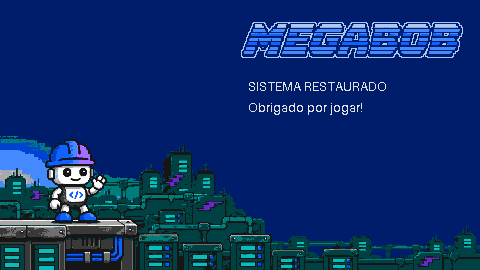
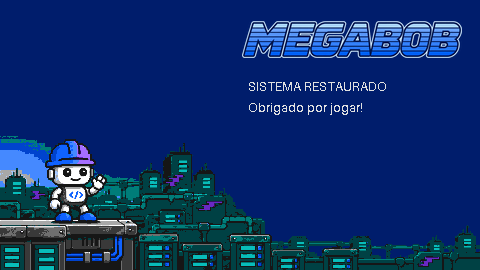
art: recreate the Megabob wordmark with smoother readable lettering (T21)
Preserve the IBM blue stripe identity and prior logo. Keep existing frame sizes while using smooth-alpha Lanczos reduction only for the wordmark.

Changed region(s): [[0.5, 0.0593, 0.9688, 0.237]]

diff --git a/tools/art.py b/tools/art.py
@@ -12,8 +12,8 @@ from pathlib import Path
 
 from PIL import Image, ImageDraw, ImageFilter
 
-from palette import nearest, PALETTE, _dist
-from sprites import frame_ranges, is_magenta, pixels, remove_specks
+from palette import nearest, _dist
+from sprites import frame_ranges, is_magenta, pixels
 from art_catalog import EXISTING_FX, REFERENCE_ONLY, catalog
 from ui_art import (
     stage_assets, stage_preview, STAGE_SLOTS, hud_assets, scene_preview, hud_preview,
@@ -118,6 +118,20 @@ def pack(regions, size, fit, empty=(), anchor='center', stretch=False, frame_fit
         y = 0 if anchor == 'top' else size[1] - small.height if anchor == 'bottom' else (size[1] - small.height) // 2
         sheet.alpha_composite(small, (i * size[0] + x, y))
     return sheet
+
+
+def readable_logo(image, size, fit):
+    """The title wordmark explicitly uses smooth alpha and its own blue ramp."""
+    box = image.getchannel('A').point(lambda a: 255 if a >= 8 else 0).getbbox()
+    if box is None:
+        raise ValueError('empty title logo')
+    crop = image.crop(box)
+    scale = min(fit[0] / crop.width, fit[1] / crop.height)
+    target = (max(1, round(crop.width * scale)), max(1, round(crop.height * scale)))
+    small = crop.resize(target, Image.Resampling.LANCZOS)
+    result = Image.new('RGBA', size)
+    result.alpha_composite(small, ((size[0] - small.width) // 2, (size[1] - small.height) // 2))
+    return result
 
 
 def align_top_frames(sheet, size, indices):
@@ -269,23 +283,6 @@ def hashes():
             for path in sorted(RAW.rglob('*.png'))}
 
 
-def night_logo(image):
-    """A one-pixel light keyline keeps the striped wordmark readable over navy skies."""
-    # The declared palette starts with six neutrals and five IBM blues. Avoid magenta
-    # background fringe mapping to purple in this blue-only logo variant.
-    allowed = PALETTE[:11]
-    colors = {rgb: min(allowed, key=lambda color: _dist(rgb, color))
-              for rgb in {pixel[:3] for pixel in pixels(image) if pixel[3]}}
-    result = image.copy()
-    result.putdata([(*colors[(r, g, b)], 255) if a else (0, 0, 0, 0)
-                    for r, g, b, a in pixels(image)])
-    remove_specks(result, 2)
-    outline = Image.new('RGBA', result.size, (166, 200, 255, 255))
-    outline.putalpha(result.getchannel('A').filter(ImageFilter.MaxFilter(3)))
-    outline.alpha_composite(result)
-    return outline
-
-
 def title_preview():
     """Art-only layout at the approved 480x270 viewport; menu text stays in game code."""
     exports = ROOT / 'art/exports'
@@ -332,12 +329,13 @@ def run(group='all'):
         source = item['source']
         if source not in cache:
             image = Image.open(RAW / source).convert('RGBA')
-            cache[source] = image if item.get('opaque') else clean(image)
+            cache[source] = image if item.get('opaque') or item['key'].startswith('title_logo') else clean(image)
         image = cache[source]
         if item['key'] == 'title_logo':
             exports = ROOT / 'art/exports'
             exports.mkdir(parents=True, exist_ok=True)
-            image.crop(image.getbbox()).save(exports / 'megabob-logo.png')
+            box = image.getchannel('A').point(lambda a: 255 if a >= 8 else 0).getbbox()
+            image.crop(box).save(exports / 'megabob-logo.png')
             prompt = (RAW / source).with_suffix('.prompt.txt')
             if prompt.exists():
                 (exports / 'megabob-logo.prompt.txt').write_text(prompt.read_text(encoding='utf-8'), encoding='utf-8')
@@ -349,14 +347,15 @@ def run(group='all'):
             if grid_key not in grids:
                 grids[grid_key] = grid_regions(image, item['cols'], item['rows'], item.get('mode', 'grid'))
             regions = [grids[grid_key][position] for position in item['selection']]
-        result = pack(regions, item['size'], item['fit'], item.get('empty', ()),
-                      item.get('anchor', 'center'), item.get('stretch', False), item.get('frame_fit'))
+        if item['key'].startswith('title_logo'):
+            result = readable_logo(image, item['size'], item['fit'])
+        else:
+            result = pack(regions, item['size'], item['fit'], item.get('empty', ()),
+                          item.get('anchor', 'center'), item.get('stretch', False), item.get('frame_fit'))
         if item.get('top_frames'):
             result = align_top_frames(result, item['size'], item['top_frames'])
         if item['key'] == 'tiles_memory_leak':
             result = memory_tiles(result)
-        if item['key'] == 'title_logo_night':
-            result = night_logo(result)
         if item['key'] == 'tech_laser':
             result = periodic(result, 2)
         entry = save_asset(result, item['group'], item['key'], item['size'], source,

diff --git a/tools/art_catalog.py b/tools/art_catalog.py
@@ -120,8 +120,8 @@ def catalog():
                     [(0, 0), (2, 5), (2, 4), (2, 1)], (16, 16),
                     frame_fit={0: 'fill', 1: 'fill', 2: 'fill', 3: 'width'}, top_frames=[3]))
 
-    out.append(spec('ui', 'title_logo', 'ui/U1_logo', 1, 1, [(0, 0)], (224, 48)))
-    out.append(spec('ui', 'title_logo_night', 'ui/U1_logo', 1, 1, [(0, 0)], (224, 48), (220, 44)))
+    out.append(spec('ui', 'title_logo', 'ui/U1_logo_readable', 1, 1, [(0, 0)], (224, 48)))
+    out.append(spec('ui', 'title_logo_night', 'ui/U1_logo_readable', 1, 1, [(0, 0)], (224, 48), (220, 44)))
     out.append(spec('ui', 'title_background', 'ui/U2_title_bg', 1, 1, [(0, 0)],
                     (256, 224), opaque=True, stretch=True))
     out.append(spec('ui', 'title_background_wide', 'ui/U2_title_bg_wide', 1, 1, [(0, 0)],
@@ -143,6 +143,6 @@ def catalog():
 
 EXISTING_FX = {item[0] for _, _, _, animations in FX_SHEETS for item in animations} | {'fx_hit'}
 REFERENCE_ONLY = ['bob/B1_bob_sheet.png', 'bob_armor/A1_armor_sheet.png',
-                  'ui/U1_logo-original.png',
+                  'ui/U1_logo-original.png', 'ui/U1_logo.png',
                   'bosses/BS1a_memory_leak_sheet.png', 'bosses/BS2a_race_condition_sheet.png',
                   'bosses/BS3a_null_pointer_sheet.png']

diff --git a/tools/test_art.py b/tools/test_art.py
@@ -3,13 +3,22 @@ import unittest
 
 from PIL import Image, ImageDraw
 
-from art import clean, grid_regions, pack, periodic, background_quantize, quantize, align_top_frames
+from art import clean, grid_regions, pack, periodic, background_quantize, quantize, align_top_frames, readable_logo
 from stage_art import extend_view, quiet_legacy_layer
 from sprites import pixels
 from art_catalog import catalog
 
 
 class ArtProcessingTests(unittest.TestCase):
+    def test_readable_logo_keeps_antialiased_edges_inside_its_existing_frame(self):
+        image = Image.new('RGBA', (80, 40))
+        ImageDraw.Draw(image).polygon([(5, 35), (30, 3), (74, 35)], fill=(15, 98, 254, 255))
+        result = readable_logo(image, (32, 16), (28, 12))
+        self.assertEqual(result.size, (32, 16))
+        self.assertTrue(any(0 < alpha < 255 for alpha in pixels(result.getchannel('A'))))
+        self.assertIsNone(result.crop((0, 0, 32, 1)).getbbox())
+        self.assertEqual(image.getpixel((30, 3)), (15, 98, 254, 255))
+
     def test_legacy_background_reduces_brightness_without_changing_alpha(self):
         image = Image.new('RGBA', (3, 1))
         image.putdata([(239, 227, 194, 255), (66, 190, 101, 255), (0, 0, 0, 0)])

diff --git a/docs/HANDOFF.md b/docs/HANDOFF.md
@@ -53,7 +53,7 @@ Validação atual, incluindo a revisão visual e a base com áudio: 453 testes T
 - **Processado:** Bob e armadura pelo pipeline anterior; lote completo de 123 strips/imagens por `tools/art.py`, incluindo ícones B11, terminal A3, peças A4, inimigos, chefes, efeitos, tiles, doze camadas originais e doze variantes de parallax para 270 px, e interface. Prévia e relatórios em `art/preview/`, fora do Git.
 - **Reprodução:** `py -3 tools/art.py all`, ou uma categoria. Catálogo em `tools/art_catalog.py`, registro gerado em `src/data/processedArt.ts`. O job antigo `tools/sprites.py fx` continua disponível para o subconjunto anterior. `fx_hit` agora usa FX3, a fonte de impacto correto.
 - **Conferência:** 68 PNGs brutos (65 previstos, fundos adicionais de título/encerramento e backup da logo), hashes inalterados durante a importação, nenhuma fonte sem classificação, bordas horizontais iguais nas 24 camadas. Smoke test nas cenas Debug/Stage: 268 texturas (123 do lote e 145 do Bob), sem erros de console/rede. QA do pack gamedev em `art/preview/gamedev_asset_report.json`, `presentation_asset_report.json` e `end_screen_asset_report.json`; detalhes em `docs/art-pipeline.md`.
-- **Logo:** nova versão com faixas azuis inspiradas na IBM; export transparente em `art/exports/megabob-logo.png`, versão de jogo em `public/assets/ui/title_logo.png`. Logo anterior preservada em `art/raw/ui/U1_logo-original.png`.
+- **Logo:** recriada a pedido do usuário para ficar mais legível e menos pixelada, mantendo azul/faixas IBM. Fonte `art/raw/ui/U1_logo_readable.png` e prompt integral; export transparente em `art/exports/megabob-logo.png`. `title_logo` / `title_logo_night` continuam em 224×48, agora com redução Lanczos e alpha suave, exceção explícita à quantização dos sprites. Versão pixelada preservada em `art/raw/ui/U1_logo.png` e `art/exports/megabob-logo-pixel.png`; primeira logo em `U1_logo-original.png`. Nova fonte eleva o total bruto para 69 PNGs; as anteriores permanecem intactas.
 - **Título panorâmico para T13:** usar `title_background_wide` (480×270) e `title_logo_night` (224×48, com contorno claro sobre o céu). Prévia em `art/exports/megabob-title-preview.png`, com fundo em `(0,0)` e logo em `(16,8)` a 2×. Artes originais preservadas; cena e navegação de menu ficam para T13.
 - **Seleção para T13:** `stage_select_wide` (480×270) com cinco molduras vazias; `stage_locked_wide` (64×64) e `stage_focus` (72×72) separados. Coordenadas em `art/exports/stage-select-layout.json`; prévias `megabob-stage-select-locked.png` e `megabob-stage-select-unlocked.png` em `art/exports/`. Usar retratos existentes sem esticar; a lógica de seleção/liberação não foi alterada nesta fatia.
 - **HUD/pausa para T13/T21:** `hud_meter_frame` (12×72, canal 6×56 para 28 segmentos), `hud_segment_blue` / `hud_segment_yellow` (6×1) e `pause_panel_wide` (352×208). Coordenadas em `art/exports/hud-pause-layout.json` e prévias `megabob-hud-preview.png`, `megabob-pause-start-preview.png`, `megabob-pause-complete-preview.png`. Ícones `armor_*`: quadro 0 coletado, quadro 1 inativo. Texturas sem texto; integração dos valores e menus fica com as tarefas correspondentes.

diff --git a/docs/art-pipeline.md b/docs/art-pipeline.md
@@ -16,7 +16,9 @@ Categorias disponíveis: `fx`, `enemies`, `bosses`, `icons`, `tiles`, `bg` e `ui
 - Jogo: 123 strips/imagens em `public/assets/`, cada PNG acompanhado de atlas JSON para ferramentas externas. O Phaser usa os tamanhos de quadro do manifesto de spritesheets.
 - Registro: `public/assets/art-manifest.json` e `src/data/processedArt.ts`, ambos gerados. `src/data/assets.ts` conserva as chaves anteriores e inclui os novos registros.
 - Revisão: contatos, repetições de fundos e `art_report.json` em `art/preview/`, fora do Git. O relatório distingue fontes processadas, conceitos de referência e fontes do pipeline anterior do Bob.
-- Logo: `art/exports/megabob-logo.png`, recortada com transparência e resolução da fonte; `public/assets/ui/title_logo.png`, versão 224×48 para o jogo. A versão atual tem lettering MEGABOB com faixas azuis inspiradas na referência IBM. A anterior está preservada em `art/raw/ui/U1_logo-original.png`.
+- Logo: `art/exports/megabob-logo.png`, recortada com transparência e resolução da fonte; `public/assets/ui/title_logo.png`, versão 224×48 para o jogo. A versão atual foi recriada com `imagegen` a pedido do usuário, com contornos suaves, letras abertas e faixas azuis inspiradas na referência IBM. Fonte intacta em `art/raw/ui/U1_logo_readable.png`, prompt integral ao lado e no export. A versão pixelada está preservada em `art/raw/ui/U1_logo.png` e `art/exports/megabob-logo-pixel.png`; a primeira logo continua em `art/raw/ui/U1_logo-original.png`.
+
+**Exceção explícita da logo:** `readable_logo` reduz com Lanczos, conserva a rampa azul e alpha intermediário, sem quantizar nem aplicar a limpeza binária dos sprites. Isso atende ao pedido de menos pixelização. As chaves e os quadros 224×48 continuam compatíveis com as cenas existentes; os demais assets mantêm seu processamento pixel art.
 
 ## Composição do título em 480×270
 
@@ -27,7 +29,7 @@ A fonte adicional `art/raw/ui/U2_title_bg_wide.png` foi gerada com `imagegen`, u
 | Fundo panorâmico | `title_background_wide`, 480×270 | `(0, 0)`, origem superior esquerda, escala 1 |
 | Logo sobre o céu | `title_logo_night`, 224×48 | `(16, 8)`, origem superior esquerda, escala 2 |
 
-`title_logo_night` deriva da mesma fonte da logo: azuis/neutros, remoção de pixels isolados e contorno claro de 1 px para separar as letras do céu. A versão original fica intacta. A margem interna evita cortar o contorno.
+`title_logo_night` deriva da mesma fonte suave da logo, com contorno claro já desenhado para separar as letras do céu. O encaixe 220×44 dentro do quadro 224×48 preserva as margens. O antigo contorno pixelado e a quantização não são aplicados à nova logo.
 
 `py -3 tools/art.py ui` também monta `art/exports/megabob-title-preview.png` (480×270) e a ampliação nearest-neighbor `art/preview/title_wide_2x.png`. O prompt do fundo está em `art/exports/megabob-title-wide.prompt.txt`. A prévia é uma composição de arte; a cena, os textos e a navegação do menu ficam para T13.
 

diff --git a/art/REGENERATE.md b/art/REGENERATE.md
@@ -17,7 +17,7 @@ Revisão de movimento concluída por `tools/review_animations.py`: 145 strips e 
 
 Comparações animadas em `art/exports/megabob-{idle,run,shoot}-review.gif`; relatório `art/exports/bob-animation-review.json`. Contatos por pose e screenshots do Phaser em `art/preview/`. As poses por estado não receberam tempos fictícios de animação.
 
-Título panorâmico: fundo 480×270 recomposto em 16:9 com `imagegen`, mantendo a fonte U2 original, e variante `title_logo_night` com contorno claro. Prévia em `art/exports/megabob-title-preview.png`; layouts e arquivos em `docs/art-pipeline.md`.
+Título panorâmico: fundo 480×270 recomposto em 16:9 com `imagegen`, mantendo a fonte U2 original. Logo recriada a pedido do usuário com letras mais legíveis e contornos suaves (`U1_logo_readable.png`), mantendo as versões anteriores. `readable_logo` conserva a rampa azul/alpha intermediário e reduz com Lanczos: exceção explícita às regras de pixel art. As duas variantes continuam em 224×48. Prévia em `art/exports/megabob-title-preview.png`; layouts e arquivos em `docs/art-pipeline.md`.
 
 Seleção panorâmica: bordas de U3 recompostas sem deformar os retratos, cinco molduras 64×64, cadeado e foco separados. Os slots e o foco cabem no viewport e não se sobrepõem. Prévias bloqueada/liberada em `art/exports/megabob-stage-select-locked.png` e `megabob-stage-select-unlocked.png`; coordenadas em `art/exports/stage-select-layout.json`.
 

diff --git a/tasks/todo.md b/tasks/todo.md
@@ -76,6 +76,7 @@ A cada lote novo em `art/raw/`, rodar o pipeline, revisar a prévia e registrar 
 - [x] Revisar sprites dos quatro chefes e corrigir a apresentação visual do Memory Leak sem alterar os padrões de ataque.
 - [x] Conferir no Phaser a leitura e as transições dos checkpoints e da porta do chefe na nova composição, preservando sprites e regras existentes.
 - [x] Conferir a identidade dos PNGs carregados em Debug/Stage e os vínculos ativos da primeira fase, com controles negativos para placeholder e imagem alterada.
+- [x] Recriar a logo com contornos suaves e letras mais legíveis, preservar a versão pixelada e integrar as duas variantes 224×48 sem quantização.
 
 As fontes em `art/raw/` permanecem intactas durante a importação. A logo anterior foi preservada e foram acrescentados fundos panorâmicos de título e encerramento; total atual de 68 PNGs brutos. A implementação reaproveita Python/Pillow instalado, sem novas dependências. As 123 saídas ficam em `public/assets/`, com prévias e relatórios em `art/preview/`. Veja `docs/art-pipeline.md`.
 

diff --git a/tasks/plan.md b/tasks/plan.md
@@ -140,5 +140,9 @@ Fortalecer a revisão de assets sem alterar a arte: conferir que as 268 texturas
 
 ## Perguntas em aberto
 
+### T21 — logo mais legível
+
+Recriar apenas o wordmark MEGABOB com a ferramenta integrada imagegen, mantendo azul e faixas IBM e abrindo as formas das letras. Preservar as fontes anteriores. Integrar a nova fonte nas duas chaves existentes de 224×48 com Lanczos e alpha suave, sem alterar cenas ou o processamento dos outros sprites. Conferir transparência, leitura reduzida, composição do título, testes, typecheck, build e console no navegador.
+
 - **Onde publicar** (GitHub Pages ou itch.io): só preciso saber na T23.
 - **Seu agente de sprites:** ele está seguindo a ordem de prioridade do `art-prompts.md` (B1-B8 → FX1/FX3/FX5 → E1/E2 → …)? Se estiver, o pipeline já consome os lotes nessa ordem.
